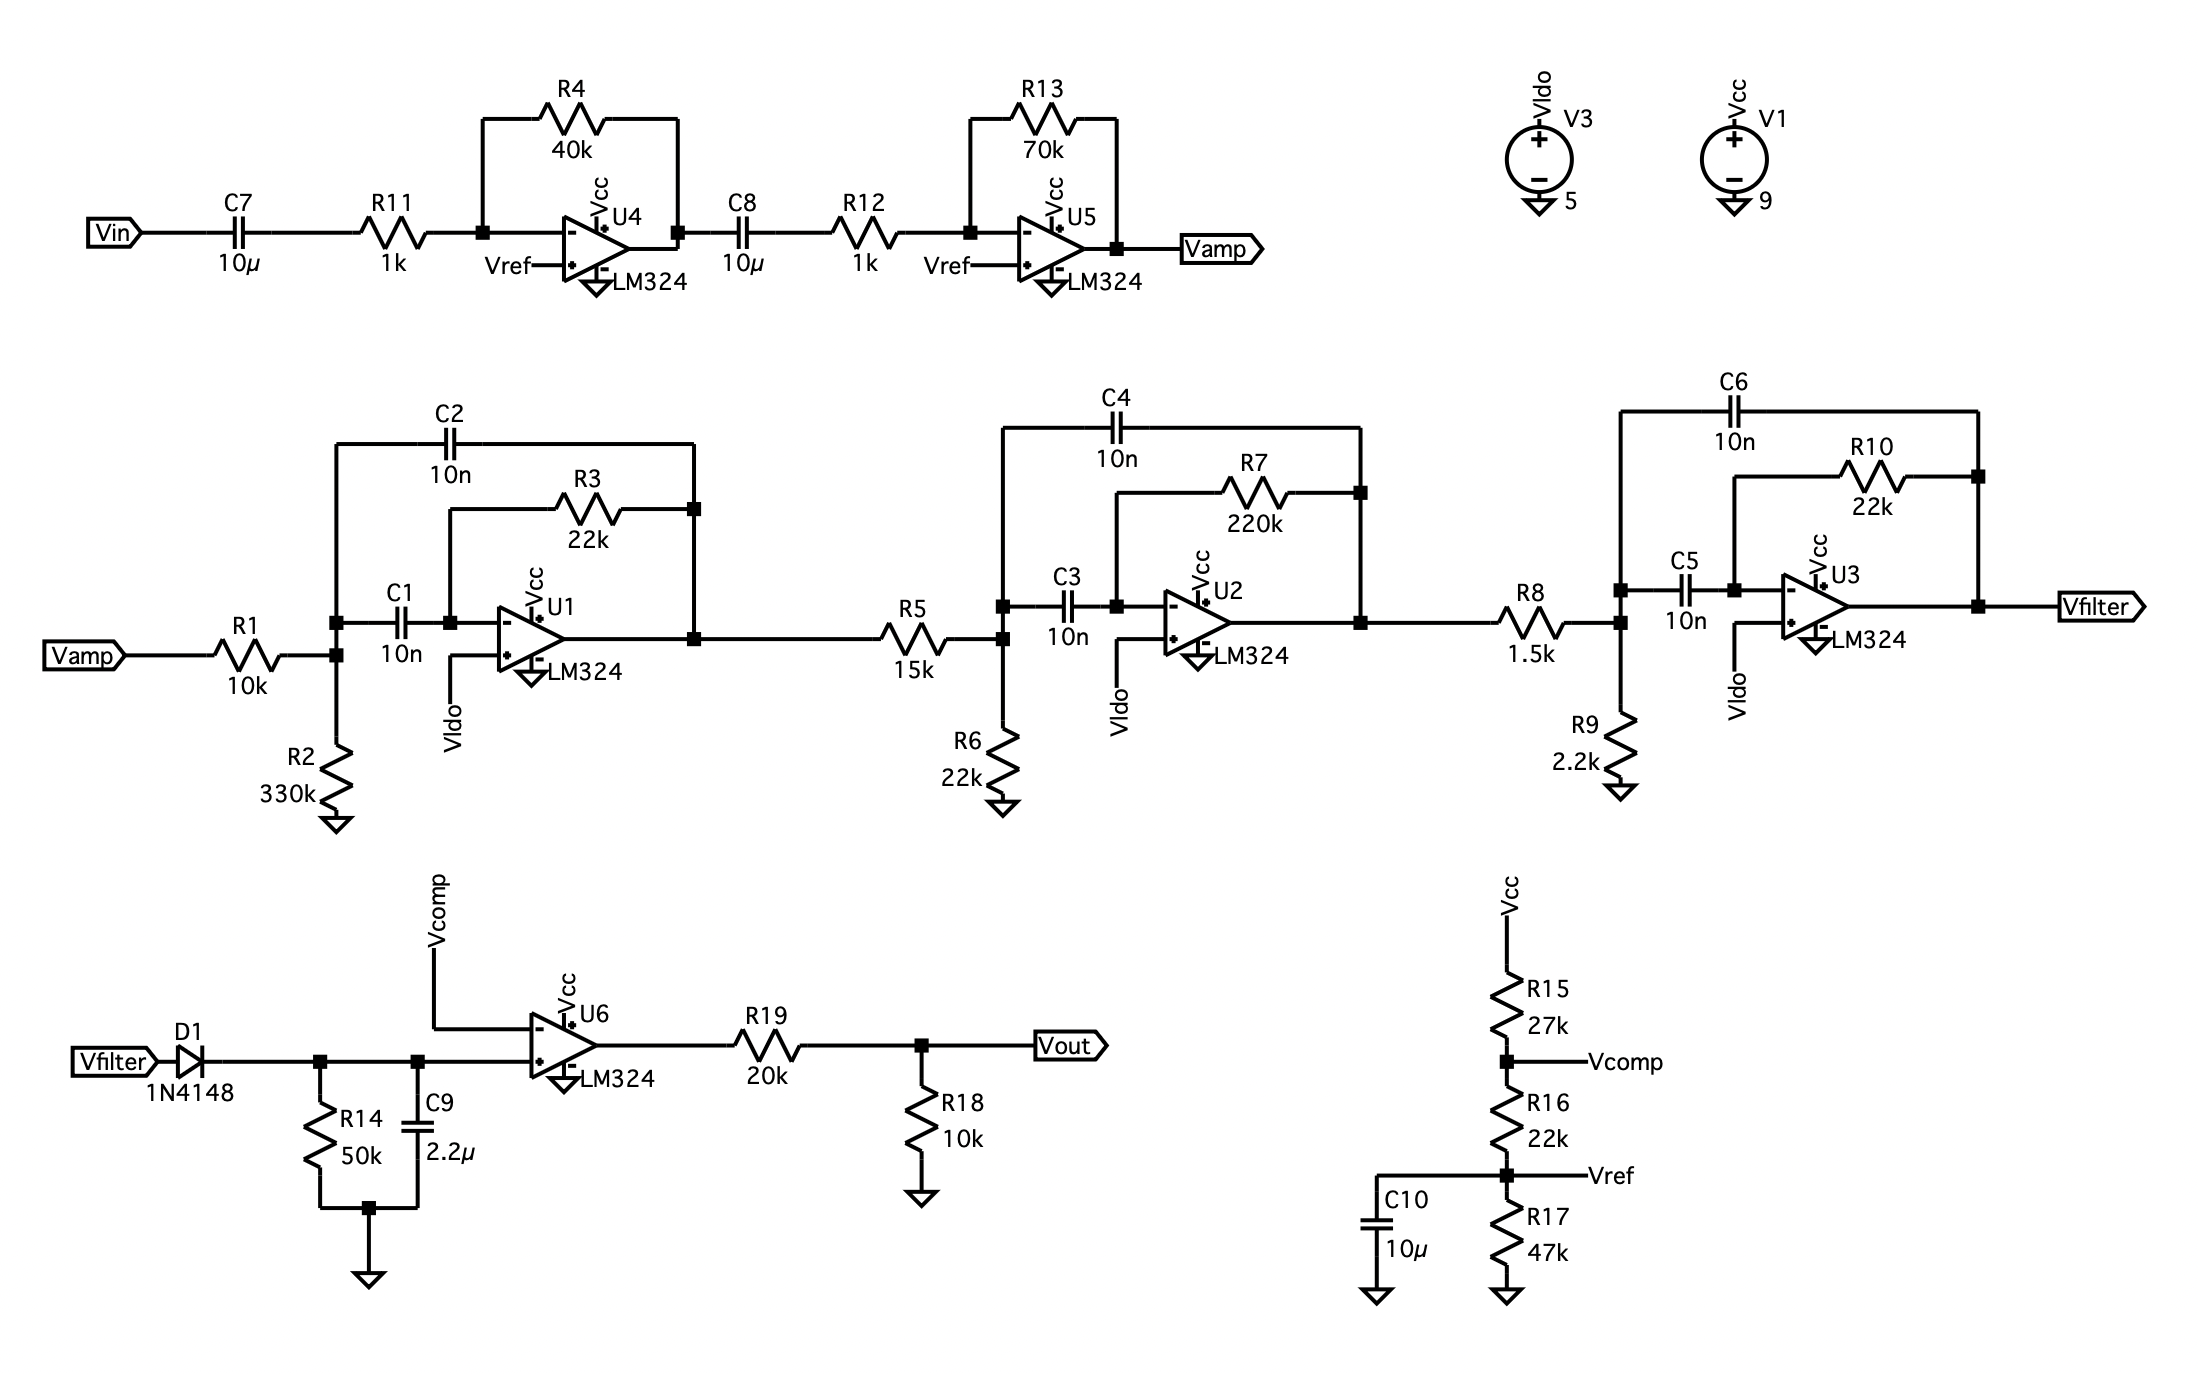
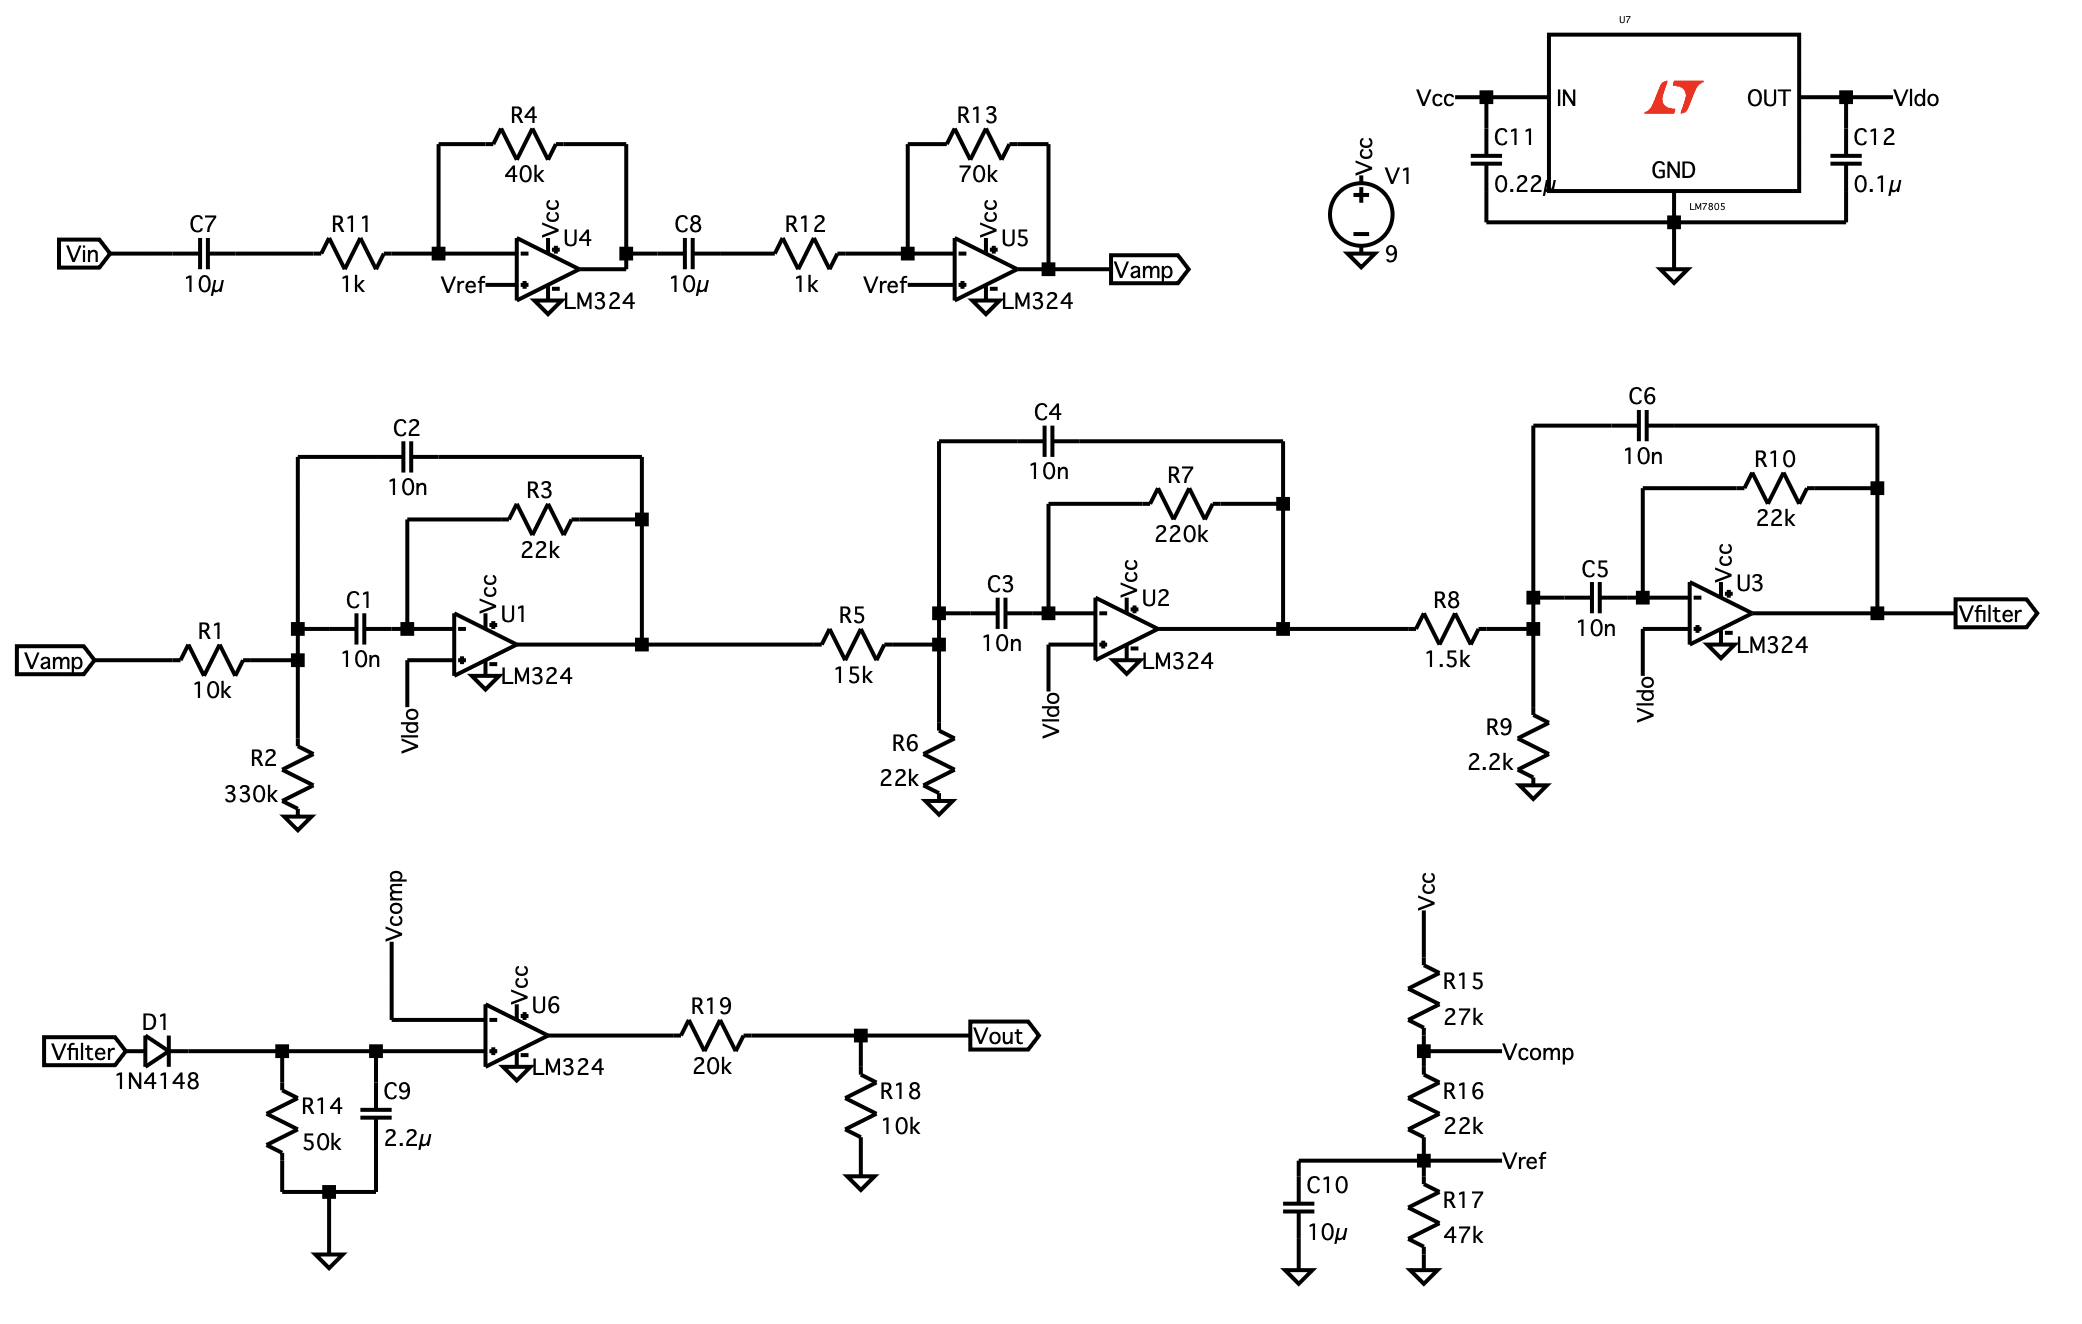
afe implementation and fix

diff --git a/report/Sections/ImplementationAndTest.tex b/report/Sections/ImplementationAndTest.tex
@@ -18,16 +18,35 @@ To address this, audio processing tasks were pinned to Core 1 while WiFi operati
 \textcolor{red}{METER NA SECCAO CERTA}
 Future work should explore the use of a more powerful MCU capable of handling the increased computational and memory demands. Possible candidates could be the ESP32-S3,STM32F746 or Teensy 4.1 .
 
-\subsection{Analog Filter}
+\subsection{Analog Front End}
+
+To help with the calibration to reach the correct level of gain for the implementation, the second resistor in the Pre-Amp circuit, $R_{b2}$ was changed to a potentiometer, thus, through testing, the correct value for the final gain of the Pre-Amp was reached, which guarantees of the human voice detection in any environment.
 
 \subsubsection{Test}
+
+To test and verify the implemented filter circuit, an analysis, equal to the AC analysis made during the simulations, was carried out, with the help of the ADALM 2000, the resulting frequency response diagram can be seen in Figure \ref{fig:AnalogFilterBodeScoppy}.
 
 \begin{figure}[H]
     \centering
     \includegraphics*[scale = 0.5]{Images/AnalogFilterScoppyBode.png}
-    \caption{Analog Filter Bode.}
+    \caption{Implemented Filter Bode Diagram.}
     \label{fig:AnalogFilterBodeScoppy}
 \end{figure}
+
+The response above presents the expected behavior, with just a small difference in the first Cutoff Frequency, where the overshoot how appeared before disappeared. This change will not cause any problems for the performance of the Bandpass Filter.
+
+Finally, to test and verify the complete Analog Front End circuit, an oscilloscope was connected to the output of the filter and the comparator. The final results of this test are exposed in Figure \ref{fig:AFETest}.
+
+\begin{figure}[H]
+    \centering
+    \includegraphics*[scale = 0.5]{Images/AFEtest.png}
+    \caption{Analog Front End final test.}
+    \label{fig:AFETest}
+\end{figure}
+
+Both signals have different scales and reference points, because of this fact, the output of the filter does not appear with the correct values in the graphic above. 
+
+With this information in mind, form this test, it can be concluded that all stages of the Analog Front End worked as expected, from the Pre-Amp, which was able to amplify the signal generated by the human voice in moment $510$ to $525$ to a value high enough to ensure the correct functioning of the rest of the circuit, moving on to the Sixth Order Bandpass Filter, where only the signal expected passed to the final stage of the AFE, expected some disturbances, which did not cause any false wake up signal to be read by the ESP32, since these were not superior to the value of the Comparator circuit. 
 
 \section{Digital Interface}
 

diff --git a/report/Sections/AnalogFrontEnd.tex b/report/Sections/AnalogFrontEnd.tex
@@ -9,6 +9,7 @@ In this section, the complete Analog Front End circuit will be presented. This i
     \label{fig:CompleteAFE}
 \end{figure}
 
+Throughout this project, the LM324 Operation Amplifier was used, because it can be powered by $9V$, unlike the MCP6001, and because of its low power consumption and low output noise\textsuperscript{\cite{lm324-datasheet}}. The only downside of this OpAmp is the fact that it is not rail-to-rail, but this fact will not be a problem, since the signals that will be used will have low amplitudes. In addiction to that, the E12 series for resistors and capacitors was also used. 
 \subsection{Pre-Amp}
 
 \subsubsection{Design}
@@ -299,7 +300,7 @@ The Peak Detector circuit consists of a simple Half Bridge Rectifier with a resi
     \label{fig:PeakandComp}
 \end{figure}
 
-The final output voltage value also goes through a voltage divider, to avoid surpassing the maximum voltage value for the GPIO pins of the MCU used, in the case of the ESP 32, $3,3V$\textsuperscript{\cite{ESP32-datasheet}}. The simulation of this circuit with a sine wave generated with a small delay is shown in Figure \ref{fig:SimPeakandComp}.
+The final output voltage value also goes through a voltage divider, to avoid surpassing the maximum voltage value for the GPIO pins of the MCU used, in the case of the ESP32, $3,3V$\textsuperscript{\cite{ESP32-datasheet}}. The simulation of this circuit with a sine wave generated with a small delay is shown in Figure \ref{fig:SimPeakandComp}.
 
 \begin{figure}[H]
     \centering

diff --git a/report/Sections/PMU.tex b/report/Sections/PMU.tex
@@ -1,6 +1,6 @@
 \section{Power Management Unit}
 
-The Power Management Unit (PMU), is responsible for supplying voltage to the entire AFE circuit and also to the MCU. The aim of this project is to have a battery as its main voltage source, so, since these batteries generate $9V$, this value most be reduced to a value supported by the ESP 32, for this purpose, the LM7805 Linear Regulator was implemented, reducing the voltage to $5V$\textsuperscript{\cite{lm7805-datasheet}}. The complete PMU circuit is exposed in Figure \ref{fig:PMU}.
+The Power Management Unit (PMU), is responsible for supplying voltage to the entire AFE circuit and also to the MCU. The aim of this project is to have a battery as its main voltage source, so, since these batteries generate $9V$, this value most be reduced to a value supported by the ESP32\textsuperscript{\cite{ESP32-datasheet}}, for this purpose, the LM7805 Linear Regulator was implemented, reducing the voltage to $5V$\textsuperscript{\cite{lm7805-datasheet}}. The complete PMU circuit is exposed in Figure \ref{fig:PMU}.
 
 \begin{figure}[H]
     \centering
